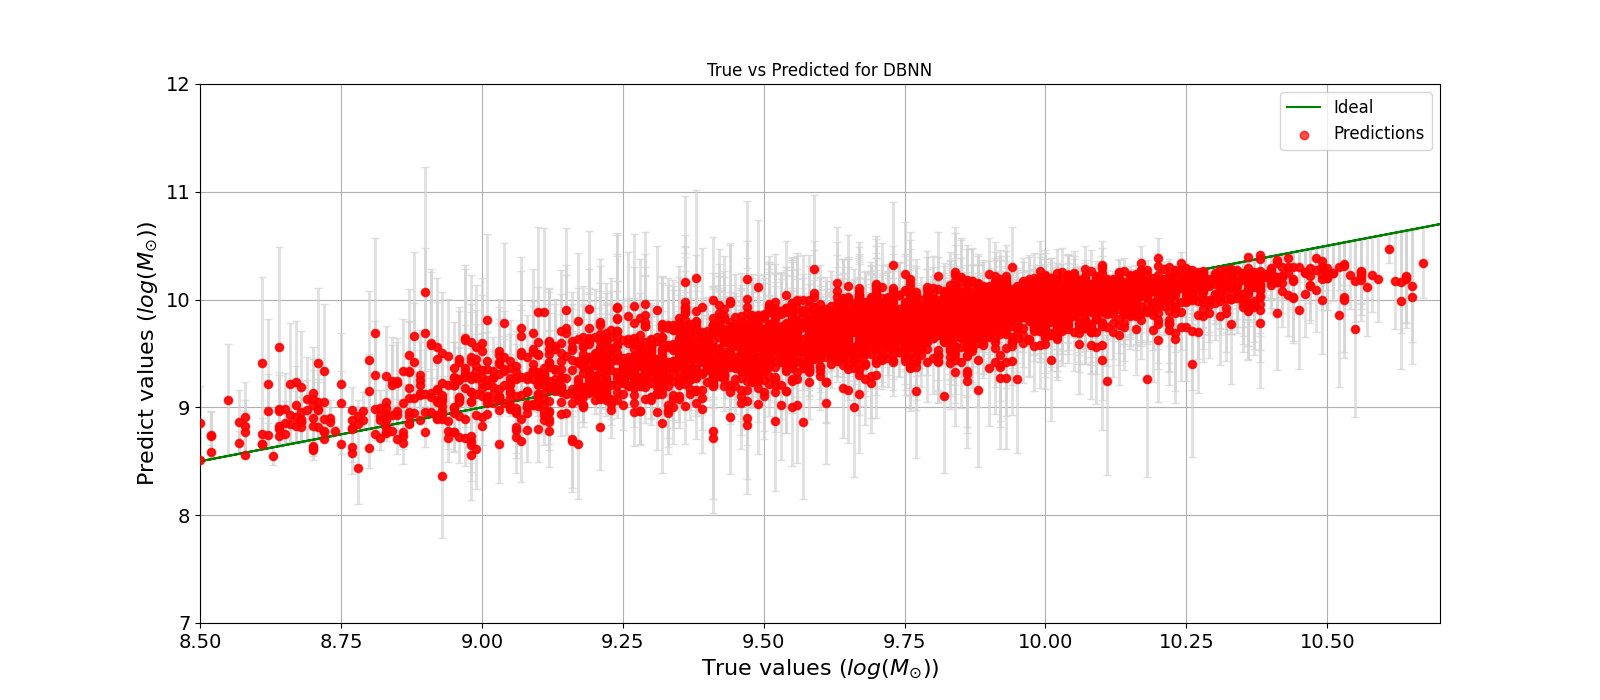
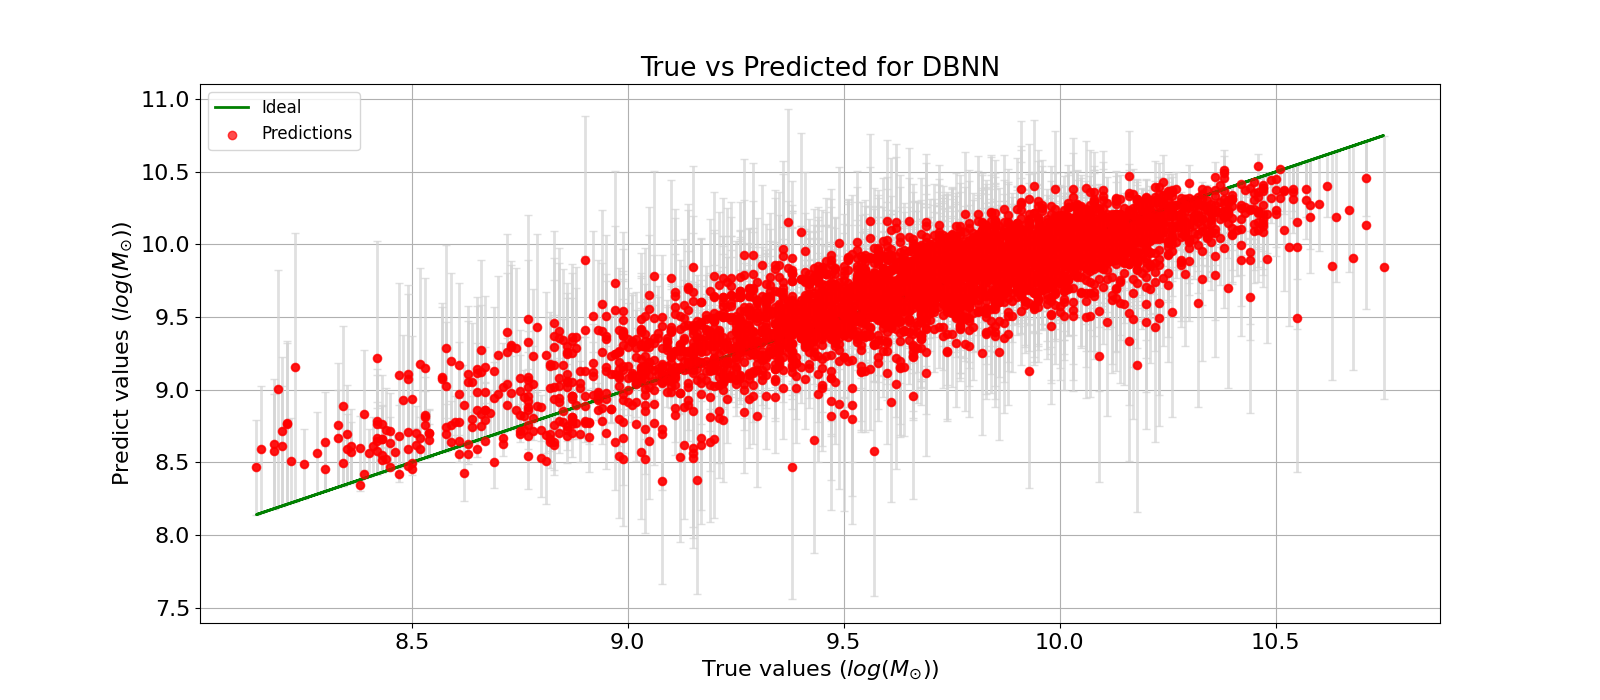
fix: graph

diff --git a/func/plot.py b/func/plot.py
@@ -1,6 +1,14 @@
 import matplotlib.pyplot as plt
 import numpy as np
 
+# Set global parameters for plot aesthetics
+plt.rcParams.update({
+    'font.size': 16,
+    'figure.figsize': (12, 6),  # consistent figure size
+    'lines.linewidth': 2,       # thicker lines for better visibility
+    'axes.grid': True           # enable grid by default for clarity
+})
+
 def plot_metrics(elbo, mae, r2, model_name):
     epochs = range(1, len(elbo) + 1)
 
@@ -8,8 +16,8 @@ def plot_metrics(elbo, mae, r2, model_name):
     plt.figure()
     plt.plot(epochs, elbo, 'b', label='ELBO')
     plt.title(f'ELBO during training for {model_name}')
-    plt.xlabel('Epochs', fontsize=16)
-    plt.ylabel('ELBO', fontsize=16)
+    plt.xlabel('Epochs')
+    plt.ylabel('ELBO')
     plt.legend()
     plt.savefig(f'{model_name}_ELBO.png')
     plt.close()
@@ -18,8 +26,8 @@ def plot_metrics(elbo, mae, r2, model_name):
     plt.figure()
     plt.plot(epochs, mae, 'r', label='MAE')
     plt.title(f'MAE during training for {model_name}')
-    plt.xlabel('Epochs', fontsize=16)
-    plt.ylabel('MAE', fontsize=16)
+    plt.xlabel('Epochs')
+    plt.ylabel('MAE')
     plt.legend()
     plt.savefig(f'{model_name}_MAE.png')
     plt.close()
@@ -28,8 +36,8 @@ def plot_metrics(elbo, mae, r2, model_name):
     plt.figure()
     plt.plot(epochs, r2, 'g', label='R²')
     plt.title(f'R² during training for {model_name}')
-    plt.xlabel('Epochs', fontsize=16)
-    plt.ylabel('R²', fontsize=16)
+    plt.xlabel('Epochs')
+    plt.ylabel('R²')
     plt.legend()
     plt.savefig(f'{model_name}_R2.png')
     plt.close()
@@ -40,8 +48,8 @@ def plot_accuracy(accuracy, model_name):
     plt.figure()
     plt.plot(epochs, accuracy, label=f'Accuracy {model_name}')
     plt.title(f'Accuracy during training for {model_name}')
-    plt.xlabel('Epochs', fontsize=16)
-    plt.ylabel('Accuracy (%)', fontsize=16)
+    plt.xlabel('Epochs')
+    plt.ylabel('Accuracy (%)')
     plt.legend()
     plt.savefig(f'{model_name}_Accuracy.png')
     plt.close()
@@ -53,8 +61,8 @@ def plot_accuracy_comparison(accuracy_bnn, accuracy_dbnn):
     plt.plot(epochs, accuracy_bnn, label='BNN Accuracy', color='blue')
     plt.plot(epochs, accuracy_dbnn, label='DBNN Accuracy', color='green')
     plt.title('Accuracy Comparison between BNN and DBNN')
-    plt.xlabel('Epochs', fontsize=16)
-    plt.ylabel('Accuracy (%)', fontsize=16)
+    plt.xlabel('Epochs')
+    plt.ylabel('Accuracy (%)')
     plt.legend()
     plt.savefig('Accuracy_Comparison.png')
     plt.close()
@@ -76,14 +84,9 @@ def make_predictions_and_plot_residuals(model1, model2, data_val, scaler_y_fit):
         plt.plot(y_val_real.flatten(), y_val_real.flatten(), color='green', zorder=3)
         plt.errorbar(y_val_real.flatten(), preds1_real.flatten(), yerr=np.abs(resids1), fmt="o", alpha=0.7, markersize=5, capsize=3, color='blue', ecolor='lightgray', elinewidth=2)
         plt.scatter(y_val_real.flatten(), preds1_real.flatten(), zorder=3, alpha=0.7, color='blue')
-        plt.xlabel(r'True values ($log(M_{\odot})$)', fontsize=16)
-        plt.ylabel(r'Predict values ($log(M_{\odot})$)', fontsize=16)
-        plt.xticks(fontsize=14)
-        plt.yticks(fontsize=14)
-        plt.xlim(8.5, 10.7)
-        plt.ylim(7, 12)
+        plt.xlabel(r'True values ($log(M_{\odot})$)')
+        plt.ylabel(r'Predict values ($log(M_{\odot})$)')
         plt.title('True vs Predicted for BNN')
-        plt.grid(True)
         plt.legend(['Ideal', 'Predictions'], fontsize=12)
         plt.savefig('realVSpreditoBNN.png')
         plt.close()
@@ -93,14 +96,9 @@ def make_predictions_and_plot_residuals(model1, model2, data_val, scaler_y_fit):
         plt.plot(y_val_real.flatten(), y_val_real.flatten(), color='green', zorder=3)
         plt.errorbar(y_val_real.flatten(), preds2_real.flatten(), yerr=np.abs(resids2), fmt="o", alpha=0.7, markersize=5, capsize=3, color='red', ecolor='lightgray', elinewidth=2)
         plt.scatter(y_val_real.flatten(), preds2_real.flatten(), zorder=3, alpha=0.7, color='red')
-        plt.xlabel(r'True values ($log(M_{\odot})$)', fontsize=16)
-        plt.ylabel(r'Predict values ($log(M_{\odot})$)', fontsize=16)
-        plt.xticks(fontsize=14)
-        plt.yticks(fontsize=14)
-        plt.xlim(8.5, 10.7)
-        plt.ylim(7, 12)
+        plt.xlabel(r'True values ($log(M_{\odot})$)')
+        plt.ylabel(r'Predict values ($log(M_{\odot})$)')
         plt.title('True vs Predicted for DBNN')
-        plt.grid(True)
         plt.legend(['Ideal', 'Predictions'], fontsize=12)
         plt.savefig('realVSpreditoDBNN.png')
         plt.close()
@@ -115,22 +113,22 @@ def plot_predictive_distributions(model1, model2, data_val, scaler_y_fit):
         y_val_real = scaler_y_fit.inverse_transform(y_data.numpy().reshape(-1, 1))
 
         # Gráfico para BNN
-        plt.figure(figsize=(12, 6))
-        plt.hist(preds1_real, bins=50, alpha=0.5, label='BNN', density=True, color='blue')
-        plt.hist(y_val_real, bins=50, alpha=0.5, label='True', density=True, color='red')
-        plt.xlabel('Predicted values', fontsize=16)
-        plt.ylabel('Density', fontsize=16)
+        plt.figure()
+        plt.hist(preds1_real, bins=50, alpha=0.5, label='BNN', color='blue')
+        plt.hist(y_val_real, bins=50, alpha=0.5, label='True', color='red')
+        plt.xlabel('Predicted values')
+        plt.ylabel('Density')
         plt.legend()
         plt.title('Predictive Distribution for BNN')
         plt.savefig('Predictive_Distribution_BNN.png')
         plt.close()
 
         # Gráfico para DBNN
-        plt.figure(figsize=(12, 6))
-        plt.hist(preds2_real, bins=50, alpha=0.5, label='DBNN', density=True, color='green')
-        plt.hist(y_val_real, bins=50, alpha=0.5, label='True', density=True, color='red')
-        plt.xlabel('Predicted values', fontsize=16)
-        plt.ylabel('Density', fontsize=16)
+        plt.figure()
+        plt.hist(preds2_real, bins=50, alpha=0.5, label='DBNN', color='green')
+        plt.hist(y_val_real, bins=50, alpha=0.5, label='True', color='red')
+        plt.xlabel('Predicted values')
+        plt.ylabel('Density')
         plt.legend()
         plt.title('Predictive Distribution for DBNN')
         plt.savefig('Predictive_Distribution_DBNN.png')
@@ -156,8 +154,8 @@ def plot_error(mae1, mae2, epochs):
     plt.figure()
     plt.plot(epochs_range, mae1, label='BNN MAE', color='blue')
     plt.plot(epochs_range, mae2, label='DBNN MAE', color='green')
-    plt.xlabel('Epochs', fontsize=16)
-    plt.ylabel('MAE', fontsize=16)
+    plt.xlabel('Epochs')
+    plt.ylabel('MAE')
     plt.legend()
     plt.title('MAE Comparison between BNN and DBNN')
     plt.savefig('MAE_Comparison.png')

diff --git a/bayesian_model.py b/bayesian_model.py
@@ -29,8 +29,8 @@ def main():
     data_path = 'data/cleaning_data.csv'
     val_split = 0.2
     seed = 1601
-    batch_size = 256  # Ajuste no tamanho do lote
-    epochs = 300  # Ajuste no número de épocas
+    batch_size = 512  # Ajuste no tamanho do lote
+    epochs = 500  # Ajuste no número de épocas
     learning_rate = 1e-4  # Ajuste na taxa de aprendizado
     weight_decay = 1e-6  # Adicionando weight decay
 
